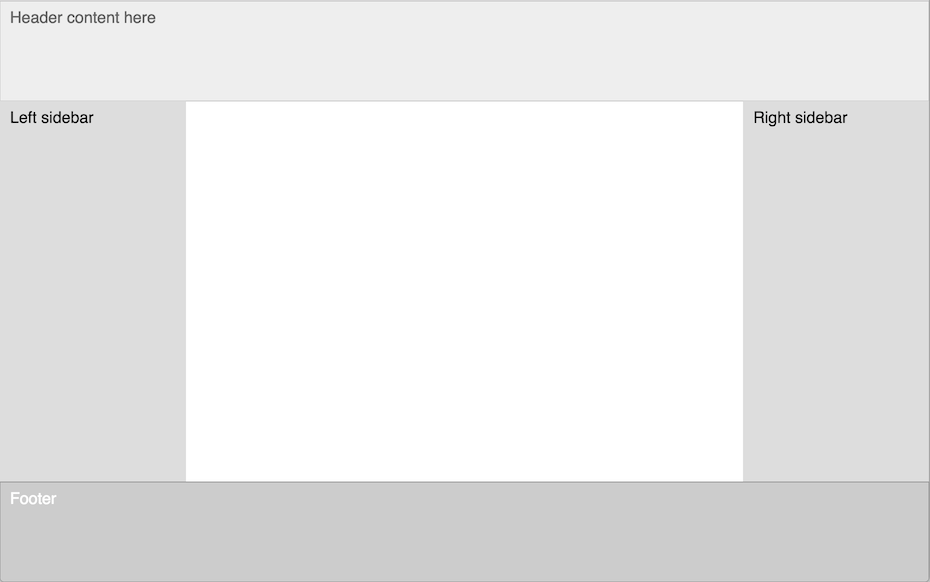
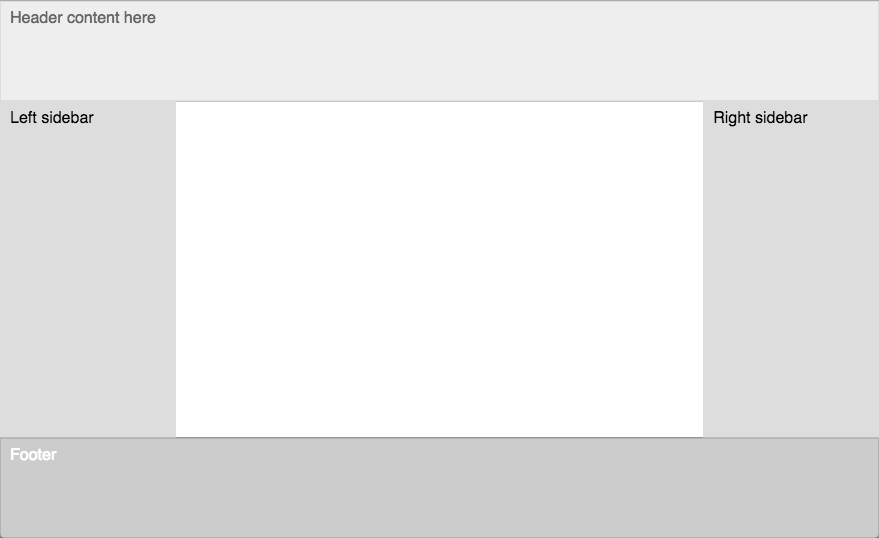
Updated images for better scaling

diff --git a/README.md b/README.md
@@ -96,7 +96,7 @@ ll.render(ctx, element_obj);
 
 This renders as:
 
-<img src="http://prust.github.io/lightning-layout/example-2-2x.png" width="930" alt="complex layout example" srcset="http://prust.github.io/lightning-layout/example-2-1x.png 1x, http://prust.github.io/lightning-layout/example-2-2x.png 2x"/>
+<img src="http://prust.github.io/lightning-layout/example-2-2x.png" width="878" alt="complex layout example" srcset="http://prust.github.io/lightning-layout/example-2-1x.png 1x, http://prust.github.io/lightning-layout/example-2-2x.png 2x"/>
 
 You can view and play with this example live at http://prust.github.io/lightning-layout.
 
